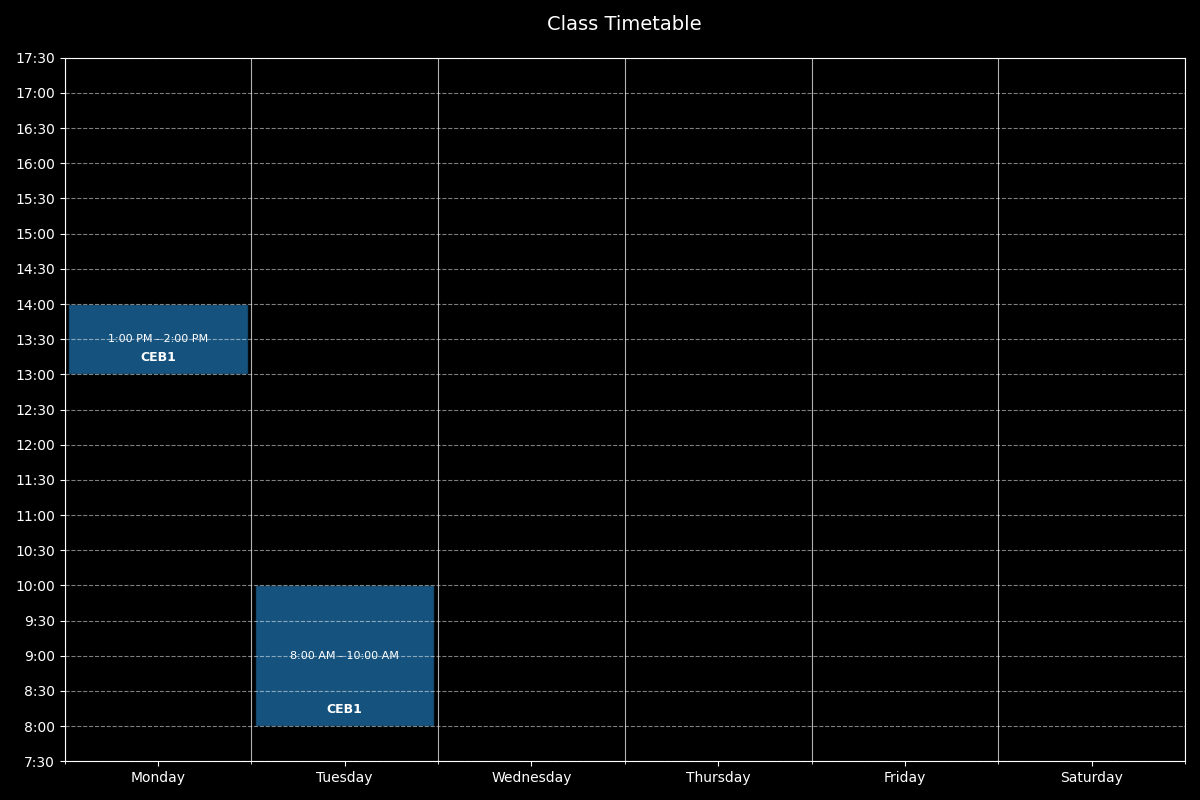
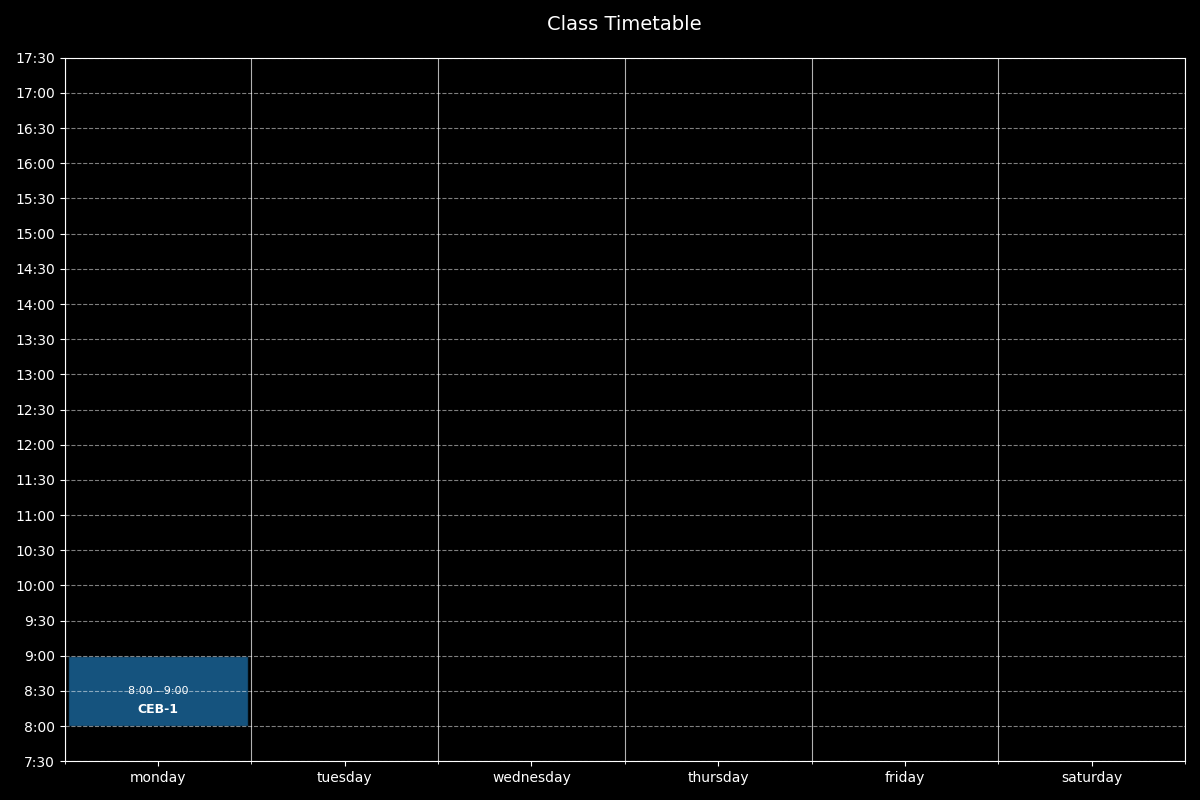
input phrasing fix

diff --git a/main.py b/main.py
@@ -4,13 +4,11 @@ from datetime import datetime
 
 
 def parse_time(time_str):
-    """Convert 'HH:MM AM/PM' to minutes since midnight."""
-    dt = datetime.strptime(time_str, "%I:%M %p")
+    dt = datetime.strptime(time_str, "%H:%M")
     return dt.hour * 60 + dt.minute
 
 
 def visualize_timetable(courseTile, days=None, title="Class Timetable", filename=None):
-    """Draws a timetable with days and rectangles centered between grid lines."""
 
     if days is None:
         days = ["Monday", "Tuesday", "Wednesday", "Thursday", "Friday", "Saturday"]
@@ -21,8 +19,8 @@ def visualize_timetable(courseTile, days=None, title="Class Timetable", filename
         c["end_min"] = parse_time(c["end"])
 
     # Time range: 7:30 AM → 5:30 PM
-    start_day_min = parse_time("7:30 AM")
-    end_day_min = parse_time("5:30 PM")
+    start_day_min = parse_time("7:30")
+    end_day_min = parse_time("17:30")
 
     ax = plotSetup(days, start_day_min, end_day_min)
 
@@ -91,15 +89,6 @@ def plotSetup(days, start_day_min, end_day_min):
     return ax
 
 
-'''courses = [
-    {"day": "Monday", "start": "8:30 AM", "end": "9:30 AM", "code": "CSE101"},
-    {"day": "Monday", "start": "12:30 PM", "end": "1:30 PM", "code": "CSE101"},
-    {"day": "Wednesday", "start": "1:00 PM", "end": "2:30 PM", "code": "MTH102"},
-    {"day": "Saturday", "start": "9:30 AM", "end": "11:00 AM", "code": "PHY103"},
-    {"day": "Monday", "start": "10:00 AM", "end": "11:30 AM", "code": "MTH102"},  # Same course as Wednesday
-]'''
-
-
 def inputPhrasing():
     data = list()
     while True:
@@ -115,7 +104,7 @@ def inputPhrasing():
                 break
 
             dataGroup = dict()
-            dataGroup["day"] = daysNTimes[0].strip()
+            dataGroup["day"] = daysNTimes[0].strip().capitalize()
             dataGroup["start"] = daysNTimes[1].strip()
             dataGroup["end"] = daysNTimes[2].strip()
             dataGroup["code"] = courseName.strip()
